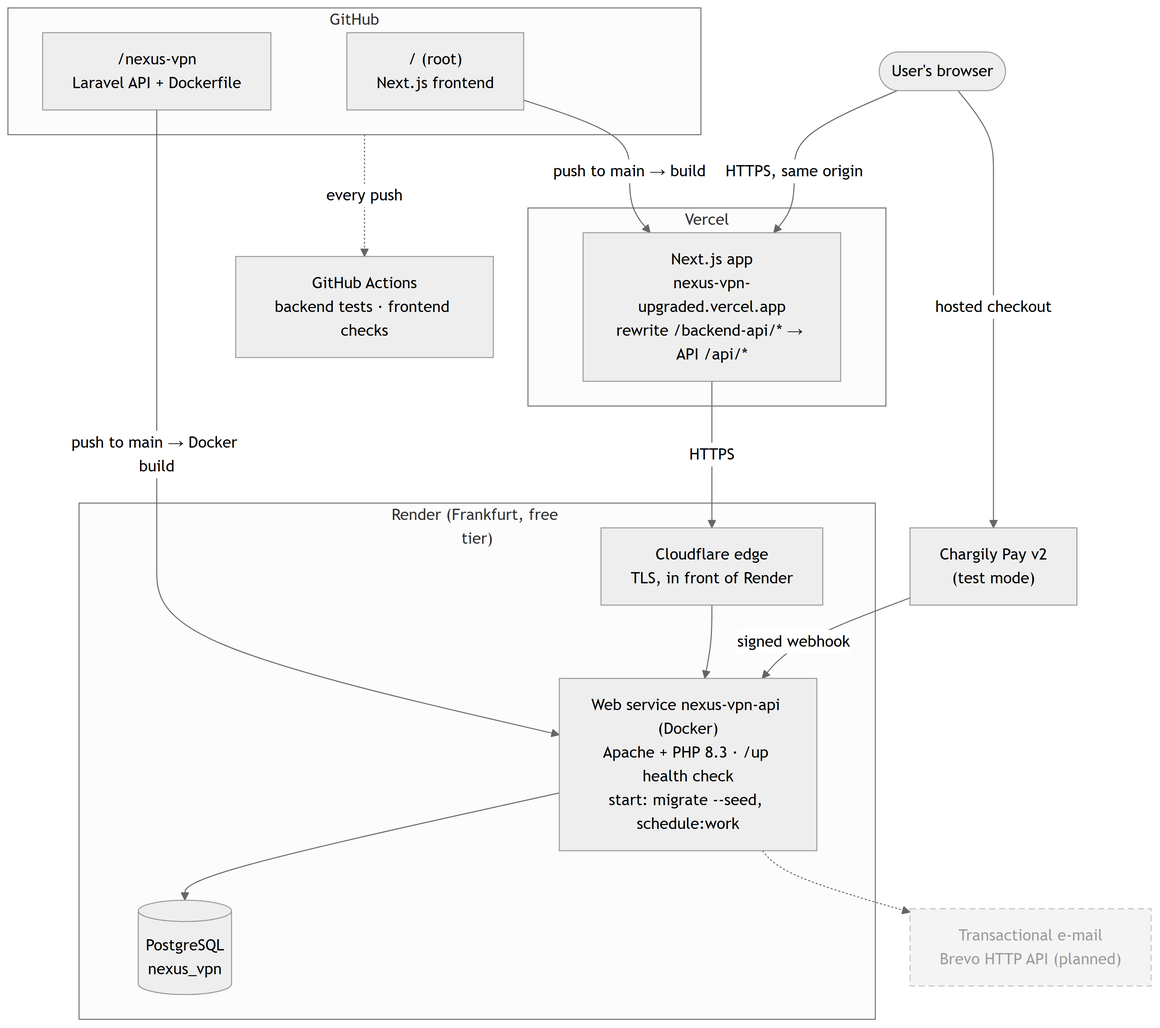
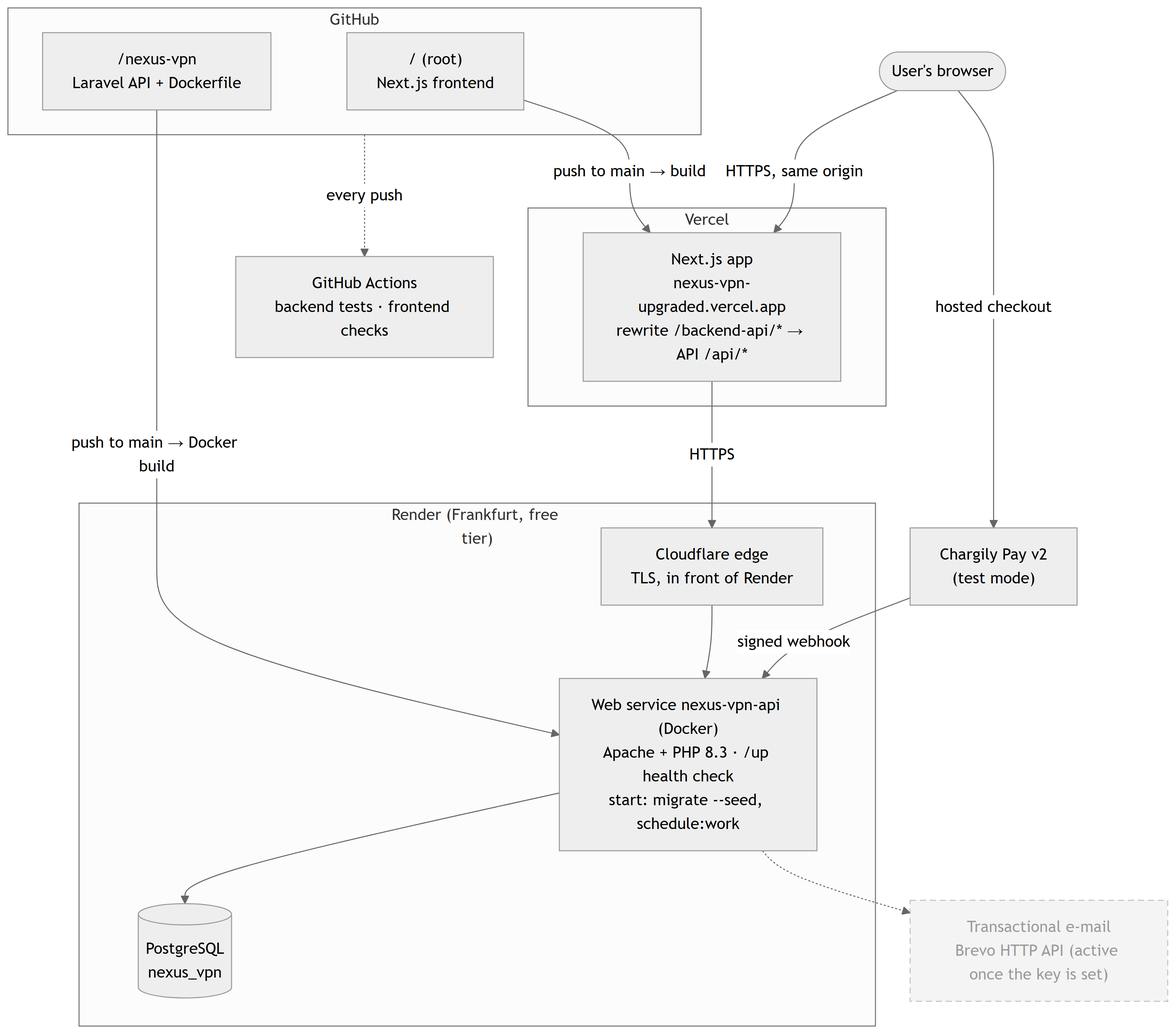
feat(mail): send production e-mail through the Brevo HTTP API (TD-16)
Render's free tier blocks outbound SMTP, so verification e-mails (needed
before paying) could not leave the live site.

- symfony/brevo-mailer + symfony/http-client, registered with
  Mail::extend('brevo') as in the Laravel 12 docs; "brevo" mailer and
  services.brevo.key (BREVO_API_KEY)
- render.yaml: MAIL_MAILER=brevo, BREVO_API_KEY secret, SMTP vars removed
- production boot logs a warning when MAIL_MAILER=brevo has no key
- BrevoMailerTest; docs/pfe and mémoire updated (111 tests)

diff --git a/nexus-vpn/app/Providers/AppServiceProvider.php b/nexus-vpn/app/Providers/AppServiceProvider.php
@@ -7,11 +7,14 @@ use Illuminate\Auth\Notifications\VerifyEmail;
 use Illuminate\Cache\RateLimiting\Limit;
 use Illuminate\Http\Request;
 use Illuminate\Support\Facades\Log;
+use Illuminate\Support\Facades\Mail;
 use Illuminate\Support\Facades\RateLimiter;
 use Illuminate\Support\Facades\Schema;
 use Illuminate\Support\Facades\URL;
 use Illuminate\Support\ServiceProvider;
 use RuntimeException;
+use Symfony\Component\Mailer\Bridge\Brevo\Transport\BrevoTransportFactory;
+use Symfony\Component\Mailer\Transport\Dsn;
 
 class AppServiceProvider extends ServiceProvider
 {
@@ -33,6 +36,17 @@ class AppServiceProvider extends ServiceProvider
         $this->guardProductionConfiguration();
         $this->configureRateLimiting();
         $this->configureEmailLinks();
+        $this->configureMailTransports();
+    }
+
+    /**
+     * Brevo's HTTP API ("brevo" mailer), used in production where outbound SMTP is blocked.
+     */
+    private function configureMailTransports(): void
+    {
+        Mail::extend('brevo', fn () => (new BrevoTransportFactory)->create(
+            new Dsn('brevo+api', 'default', config('services.brevo.key'))
+        ));
     }
 
     private function configureRateLimiting(): void
@@ -110,6 +124,7 @@ class AppServiceProvider extends ServiceProvider
             config('services.chargily.mode') !== 'live' ? 'CHARGILY_MODE is not live' : null,
             str_ends_with((string) config('mail.from.address'), '@example.com') ? 'MAIL_FROM_ADDRESS is a placeholder' : null,
             in_array(config('mail.default'), ['log', 'array'], true) ? 'MAIL_MAILER does not deliver email' : null,
+            config('mail.default') === 'brevo' && blank(config('services.brevo.key')) ? 'BREVO_API_KEY is missing' : null,
             config('session.encrypt') ? null : 'SESSION_ENCRYPT is false',
             config('logging.channels.'.config('logging.default').'.level') === 'debug' ? 'LOG_LEVEL is debug' : null,
         ]);

diff --git a/nexus-vpn/tests/Feature/BrevoMailerTest.php b/nexus-vpn/tests/Feature/BrevoMailerTest.php
@@ -1,0 +1,25 @@
+<?php
+
+namespace Tests\Feature;
+
+use Illuminate\Support\Facades\Mail;
+use ReflectionProperty;
+use Symfony\Component\Mailer\Bridge\Brevo\Transport\BrevoApiTransport;
+use Tests\TestCase;
+
+/**
+ * Production e-mail goes through Brevo's HTTP API (Render's free tier blocks outbound SMTP).
+ */
+class BrevoMailerTest extends TestCase
+{
+    public function test_brevo_mailer_uses_the_brevo_http_api_with_the_configured_key(): void
+    {
+        config(['services.brevo.key' => 'xkeysib-test-key']);
+
+        $transport = Mail::mailer('brevo')->getSymfonyTransport();
+
+        $this->assertInstanceOf(BrevoApiTransport::class, $transport);
+        $this->assertSame('brevo+api://api.brevo.com', (string) $transport);
+        $this->assertSame('xkeysib-test-key', (new ReflectionProperty($transport, 'key'))->getValue($transport));
+    }
+}

diff --git a/nexus-vpn/config/services.php b/nexus-vpn/config/services.php
@@ -28,6 +28,11 @@ return [
         'key' => env('RESEND_KEY'),
     ],
 
+    // Production e-mail: Render's free tier blocks outbound SMTP, so mail goes through Brevo's HTTP API.
+    'brevo' => [
+        'key' => env('BREVO_API_KEY'),
+    ],
+
     'slack' => [
         'notifications' => [
             'bot_user_oauth_token' => env('SLACK_BOT_USER_OAUTH_TOKEN'),

diff --git a/nexus-vpn/config/mail.php b/nexus-vpn/config/mail.php
@@ -65,6 +65,10 @@ return [
             'transport' => 'resend',
         ],
 
+        'brevo' => [
+            'transport' => 'brevo',
+        ],
+
         'sendmail' => [
             'transport' => 'sendmail',
             'path' => env('MAIL_SENDMAIL_PATH', '/usr/sbin/sendmail -bs -i'),

diff --git a/docs/memoire/chapters/ch4.md b/docs/memoire/chapters/ch4.md
@@ -54,7 +54,7 @@ Multi-factor authentication is **not** implemented and is listed as future work;
 
 ![](../figures/logos/png/vercel.png){height=0.6cm} **Vercel** — the hosting platform for the Next.js front end. **Render** — the hosting platform for the backend container and the managed PostgreSQL database. **Brevo** is the planned production e-mail service, to be used over its HTTP API (Gmail SMTP in development).
 
-![](../figures/logos/png/phpunit.png){height=0.6cm} **PHPUnit**[^phpunit] 11.5.55 — the back-end test framework (110 tests, IV.6).
+![](../figures/logos/png/phpunit.png){height=0.6cm} **PHPUnit**[^phpunit] 11.5.55 — the back-end test framework (111 tests, IV.6).
 
 ![](../figures/logos/png/eslint.png){height=0.6cm} **ESLint 9.39** with **Laravel Pint 1.29** — static analysis and code style for the front end and the back end.
 
@@ -105,7 +105,7 @@ Inside each application the code is organised in three layers:
 The API depends on three external services, each isolated behind a small, replaceable integration point:
 
 - **Chargily Pay v2** — hosted checkout and signed webhook for EDAHABIA/CIB payments (IV.5.3).
-- **E-mail** — Gmail SMTP in development; in production, Brevo's HTTP API is planned, because Render's free tier blocks outbound SMTP. Account e-mails are transactional (verification, password reset, welcome, receipt, reminders).
+- **E-mail** — Gmail SMTP in development; in production, Brevo's HTTP API, because Render's free tier blocks outbound SMTP. Account e-mails are transactional (verification, password reset, welcome, receipt, reminders).
 - **WireGuard gateway** — the server that terminates the tunnels. The portal issues peers and configuration files; running the gateway is the network team's responsibility and is not part of this repository.
 
 ## IV.3 Functional Modules
@@ -527,7 +527,7 @@ The private key is stored with Eloquent's `encrypted` cast and hidden from seria
 
 ### IV.6.1 Automated tests
 
-The back end is covered by an automated test suite of **110 tests (460 assertions)** that runs in about thirty seconds on an in-memory SQLite database. The tests are feature tests: each one drives the real HTTP endpoints and asserts on the response and the database state. Table IV.3 groups them by area; the same breakdown is given in Appendix C.
+The back end is covered by an automated test suite of **111 tests (463 assertions)** that runs in about thirty seconds on an in-memory SQLite database. The tests are feature tests: each one drives the real HTTP endpoints and asserts on the response and the database state. Table IV.3 groups them by area; the same breakdown is given in Appendix C.
 
 | Area | Tests | What it verifies |
 |---|---|---|
@@ -536,10 +536,10 @@ The back end is covered by an automated test suite of **110 tests (460 assertion
 | Subscriptions and VPN provisioning | 11 | Trial, renewal, cancellation, scheduled expiry, WireGuard peer issue and distinct tunnel addresses |
 | Mobile token API (Sanctum) | 9 | Token issue, protected routes, guard separation, token revocation |
 | Administration and billing | 19 | Admin-only access, statistics, refunds, plan deactivation, moderation, team subscriptions, contact requests |
-| Platform and data integrity | 2 | Demo-data seeder, scaffold test |
-| **Total** | **110** | 460 assertions, ~30 s |
+| Platform and data integrity | 3 | Demo-data seeder, production mail transport (Brevo), scaffold test |
+| **Total** | **111** | 463 assertions, ~30 s |
 
-**Table IV.3 — Backend automated test suite.** *Source: prepared by the authors, from `php artisan test` (15/10/2026).*
+**Table IV.3 — Backend automated test suite.** *Source: prepared by the authors, from `php artisan test` (18/10/2026).*
 
 Automated **frontend** testing is not yet in place and is listed as future work; Playwright is currently used to capture the interface screenshots rather than to assert on behaviour.
 
@@ -664,12 +664,12 @@ The free hosting tier has real limits worth stating plainly:
 
 * **Sleep.** The API stops after fifteen minutes without traffic; the next request wakes it, which took 14.5 s in our measurement. Access control stays correct during sleep because it compares the stored period end with the current time on every request, but scheduled tasks (expiry e-mails, VPN revocation, payment reconciliation) only run while the service is awake.
 * **Database lifetime.** A free Render PostgreSQL database expires thirty days after its creation and is deleted after a further fourteen-day grace period. Before real use, the database must be moved to a paid plan or backed up and recreated.
-* **E-mail.** Render's free tier blocks outbound SMTP. Transactional e-mail in production is therefore planned through the **Brevo** HTTP API (dashed in Figure IV.32); this transport is not yet implemented, so e-mails sent by the live site are not claimed here.
+* **E-mail.** Render's free tier blocks outbound SMTP. Transactional e-mail in production therefore goes through the **Brevo** HTTP API, wired with the Symfony Brevo transport that the Laravel documentation recommends (`MAIL_MAILER=brevo`). It becomes active once the Brevo API key and a sender address verified in Brevo are entered in the Render dashboard (dashed in Figure IV.32); delivery from the live site has not yet been tested, so it is not claimed here.
 * **Payments.** Chargily runs in **test mode**: the full payment flow works, but no real money is collected until the live keys are configured.
 
 ## Conclusion
 
-This chapter presented the implementation and the deployment of the portal. It set out the technology stack and justified a decoupled Next.js / Laravel architecture built as a modular monolith; it described the nine functional modules and walked through the client, administration and support interfaces; and it examined the critical components — security headers and rate limiting, session and Sanctum authentication, the HMAC-signed and idempotent payment flow, and the WireGuard provisioning built on Curve25519 — with excerpts from the source code. Quality is backed by an automated suite of 110 backend tests run by continuous integration, complemented by documented manual security checks. Finally, it described the production deployment on Vercel and Render, the release process, the checks run against the live system and the problems met while deploying, with their solutions.
+This chapter presented the implementation and the deployment of the portal. It set out the technology stack and justified a decoupled Next.js / Laravel architecture built as a modular monolith; it described the nine functional modules and walked through the client, administration and support interfaces; and it examined the critical components — security headers and rate limiting, session and Sanctum authentication, the HMAC-signed and idempotent payment flow, and the WireGuard provisioning built on Curve25519 — with excerpts from the source code. Quality is backed by an automated suite of 111 backend tests run by continuous integration, complemented by documented manual security checks. Finally, it described the production deployment on Vercel and Render, the release process, the checks run against the live system and the problems met while deploying, with their solutions.
 
 The chapter has also been explicit about the system's boundaries: live security scans, performance and load tests, dashboard screenshots and an end-to-end payment-and-tunnel demonstration are left as clearly marked items of future work, as are the forwarding of the visitor's real IP address to the API, transactional e-mail in production, the native mobile client and the live VPN gateway operated by the network team. The general conclusion that follows draws together the results of the whole project and its perspectives.
 

diff --git a/docs/memoire/chapters/abstracts.md b/docs/memoire/chapters/abstracts.md
@@ -7,7 +7,7 @@
 :::
 
 ::: {custom-style="AbstractBodyAr" dir="rtl"}
-تقدّم هذه المذكرة تصميم وإنجاز NexusVPN، وهي منصة ويب لبيع خدمة VPN وتوفيرها عبر الإنترنت للسوق الجزائرية، أُنجزت كدراسة حالة لدى مؤسسة EADN. تعرض المنصة باقات اشتراك بالدينار الجزائري، وتتيح للزبون التسجيل وبدء فترة تجريبية مجانية والدفع عبر الإنترنت بالبطاقة الذهبية أو بطاقة CIB من خلال بوابة الدفع Chargily، ثم توفّر الخدمة آليًا بتوليد زوج مفاتيح WireGuard وملف إعداد جاهز للاستيراد. وتسمح لوحة الإدارة بتسيير العروض والاشتراكات والمدفوعات وآراء الزبائن وطلبات الاتصال. تمّت نمذجة الحلّ بلغة UML وتطويره باستعمال Next.js وواجهة برمجية REST مبنية بـ Laravel؛ ويُؤكَّد الدفع عبر إشعار ويب موقَّع، وتغطّي الواجهة الخلفية 110 اختبارات آلية. وقد نُشرت المنصة على الإنترنت عبر خدمتي Vercel وRender، أمّا تطبيق الهاتف المحمول فمدرج ضمن الآفاق المستقبلية.
+تقدّم هذه المذكرة تصميم وإنجاز NexusVPN، وهي منصة ويب لبيع خدمة VPN وتوفيرها عبر الإنترنت للسوق الجزائرية، أُنجزت كدراسة حالة لدى مؤسسة EADN. تعرض المنصة باقات اشتراك بالدينار الجزائري، وتتيح للزبون التسجيل وبدء فترة تجريبية مجانية والدفع عبر الإنترنت بالبطاقة الذهبية أو بطاقة CIB من خلال بوابة الدفع Chargily، ثم توفّر الخدمة آليًا بتوليد زوج مفاتيح WireGuard وملف إعداد جاهز للاستيراد. وتسمح لوحة الإدارة بتسيير العروض والاشتراكات والمدفوعات وآراء الزبائن وطلبات الاتصال. تمّت نمذجة الحلّ بلغة UML وتطويره باستعمال Next.js وواجهة برمجية REST مبنية بـ Laravel؛ ويُؤكَّد الدفع عبر إشعار ويب موقَّع، وتغطّي الواجهة الخلفية 111 اختبارًا آليًا. وقد نُشرت المنصة على الإنترنت عبر خدمتي Vercel وRender، أمّا تطبيق الهاتف المحمول فمدرج ضمن الآفاق المستقبلية.
 :::
 
 ::: {custom-style="AbstractKeywordsAr" dir="rtl"}
@@ -19,7 +19,7 @@ Résumé
 :::
 
 ::: {custom-style="AbstractBody"}
-Ce mémoire présente la conception et la réalisation de NexusVPN, une plateforme web qui vend et fournit en ligne un service VPN pour le marché algérien, menée comme étude de cas à l'Entreprise d'Appui au Développement du Numérique (EADN). Le portail présente des formules d'abonnement en dinars algériens, permet au client de s'inscrire, de commencer un essai gratuit et de payer en ligne par carte EDAHABIA ou CIB via la passerelle Chargily, puis génère automatiquement une paire de clés WireGuard et un fichier de configuration prêt à importer. Une console d'administration gère les offres, les abonnements, les paiements, les avis des clients et les demandes de contact. La solution a été modélisée avec UML et développée avec Next.js et une API REST Laravel ; le paiement est confirmé par un webhook signé et le back-end est couvert par 110 tests automatisés. Le portail est déployé en ligne (Vercel et Render) ; une application mobile est prévue en perspective.
+Ce mémoire présente la conception et la réalisation de NexusVPN, une plateforme web qui vend et fournit en ligne un service VPN pour le marché algérien, menée comme étude de cas à l'Entreprise d'Appui au Développement du Numérique (EADN). Le portail présente des formules d'abonnement en dinars algériens, permet au client de s'inscrire, de commencer un essai gratuit et de payer en ligne par carte EDAHABIA ou CIB via la passerelle Chargily, puis génère automatiquement une paire de clés WireGuard et un fichier de configuration prêt à importer. Une console d'administration gère les offres, les abonnements, les paiements, les avis des clients et les demandes de contact. La solution a été modélisée avec UML et développée avec Next.js et une API REST Laravel ; le paiement est confirmé par un webhook signé et le back-end est couvert par 111 tests automatisés. Le portail est déployé en ligne (Vercel et Render) ; une application mobile est prévue en perspective.
 :::
 
 ::: {custom-style="AbstractKeywords"}
@@ -31,7 +31,7 @@ Abstract
 :::
 
 ::: {custom-style="AbstractBody"}
-This thesis presents the design and implementation of NexusVPN, a web platform that sells and provisions a VPN service online for the Algerian market, as a case study at the Entreprise d'Appui au Développement du Numérique (EADN). The portal presents subscription plans priced in Algerian dinars, lets a customer register, start a free trial and pay online with an EDAHABIA or CIB card through the Chargily gateway, then automatically generates a WireGuard key pair and a ready-to-import configuration file. An administration console manages offers, subscriptions, payments, customer feedback and contact requests. The solution was modelled with UML and built with Next.js and a Laravel REST API; the payment is confirmed through a signed webhook, and the back end is covered by 110 automated tests. The portal is deployed online (Vercel and Render); a mobile application is planned as future work.
+This thesis presents the design and implementation of NexusVPN, a web platform that sells and provisions a VPN service online for the Algerian market, as a case study at the Entreprise d'Appui au Développement du Numérique (EADN). The portal presents subscription plans priced in Algerian dinars, lets a customer register, start a free trial and pay online with an EDAHABIA or CIB card through the Chargily gateway, then automatically generates a WireGuard key pair and a ready-to-import configuration file. An administration console manages offers, subscriptions, payments, customer feedback and contact requests. The solution was modelled with UML and built with Next.js and a Laravel REST API; the payment is confirmed through a signed webhook, and the back end is covered by 111 automated tests. The portal is deployed online (Vercel and Render); a mobile application is planned as future work.
 :::
 
 ::: {custom-style="AbstractKeywords"}

diff --git a/docs/pfe/13-deployment.md b/docs/pfe/13-deployment.md
@@ -11,7 +11,7 @@
 | Base de données | **Render PostgreSQL** | `nexus-vpn-db` (base `nexus_vpn`, utilisateur `nexus_vpn`) | Francfort, offre **Free** |
 | Paiement | Chargily Pay v2 | Service externe | Mode `test` dans `render.yaml` |
 | Passerelle VPN WireGuard | — | Serveur externe | ⚠ À VÉRIFIER : aucun serveur WireGuard n'est décrit dans le dépôt (seules `VPN_SERVER_PUBLIC_KEY`/`VPN_SERVER_ENDPOINT` sont attendues) |
-| Envoi d'e-mails | **Dev : Gmail SMTP** ; **Production : Brevo (API HTTP)** | Service externe | ⚠ **Render Free bloque le SMTP sortant (25/465/587)** → la production utilise l'API HTTP **Brevo** (expéditeur unique vérifié, sans domaine ; D-16/D-17 du mémoire, `15` TD-16). Secrets à saisir dans Render au déploiement |
+| Envoi d'e-mails | **Dev : Gmail SMTP** ; **Production : Brevo (API HTTP)** | Service externe | ⚠ **Render Free bloque le SMTP sortant (25/465/587)** → la production utilise l'API HTTP **Brevo** (expéditeur unique vérifié, sans domaine ; D-17 du mémoire, `15` TD-16). Câblé le 2026-10-18 ; `BREVO_API_KEY` et `MAIL_FROM_ADDRESS` à saisir dans Render |
 
 Flux en production : navigateur → Vercel (`/backend-api/*` réécrit) → Render (`/api/*`) → PostgreSQL. Chargily appelle directement le webhook sur le domaine Render. Détails du flux : `07-api.md` §1.
 
@@ -72,7 +72,7 @@ Synchronisation des pairs VPN : manuelle (`php artisan vpn:peers` puis `wg syncc
 
 1. Render : créer un Blueprint à partir du dépôt GitHub et sélectionner `render.yaml`.
 2. Attendre que `nexus-vpn-api` soit sain (`/up`) ; les migrations s'exécutent au démarrage.
-3. Saisir les secrets `sync: false` dans Render (Chargily, SMTP, VPN). ⚠ À VÉRIFIER : cette étape n'est pas détaillée dans `DEPLOYMENT.md`.
+3. Saisir les secrets `sync: false` dans Render (Chargily, `BREVO_API_KEY` + `MAIL_FROM_ADDRESS`, VPN). ⚠ À VÉRIFIER : cette étape n'est pas détaillée dans `DEPLOYMENT.md`.
 4. Copier l'URL publique du service Render.
 5. Vercel : définir `NEXT_PUBLIC_API_URL` avec cette URL, puis redéployer.
 6. Chargily : configurer l'URL du webhook `https://<service-render>/api/webhooks/chargily`. ⚠ À VÉRIFIER : non mentionné dans `DEPLOYMENT.md`.
@@ -93,7 +93,7 @@ Synchronisation des pairs VPN : manuelle (`php artisan vpn:peers` puis `wg syncc
 | `CACHE_STORE`, `QUEUE_CONNECTION` | Cache et files | `render.yaml` / `.env` |
 | `LOG_CHANNEL`, `LOG_LEVEL` | Journalisation | `render.yaml` / `.env` |
 | `CHARGILY_MODE`, `CHARGILY_SECRET_KEY` | Paiement (test/live), clé API + HMAC | `render.yaml` + secret Render / `.env` |
-| `MAIL_MAILER`, `MAIL_HOST`, `MAIL_PORT`, `MAIL_USERNAME`, `MAIL_PASSWORD`, `MAIL_FROM_ADDRESS`, `MAIL_FROM_NAME` | E-mails | `render.yaml` + secrets Render / `.env` |
+| `MAIL_MAILER`, `MAIL_FROM_ADDRESS`, `MAIL_FROM_NAME` ; production : `BREVO_API_KEY` ; local : `MAIL_HOST`, `MAIL_PORT`, `MAIL_USERNAME`, `MAIL_PASSWORD`, `MAIL_ENCRYPTION` | E-mails | `render.yaml` + secrets Render / `.env` |
 | `VPN_SERVER_PUBLIC_KEY`, `VPN_SERVER_ENDPOINT` | Passerelle WireGuard (obligatoires pour délivrer une configuration) | secrets Render / `.env` |
 | `VPN_DNS`, `VPN_ALLOWED_IPS`, `VPN_ADDRESS_POOL`, `VPN_CLIENT_PREFIX` | Paramètres WireGuard optionnels (valeurs par défaut dans `config/services.php`) | `.env` (absentes de `render.yaml` : valeurs par défaut en production) |
 | `BCRYPT_ROUNDS` | Coût du hachage des mots de passe | `.env` |
@@ -147,4 +147,4 @@ Depuis le 2026-10-06, l'envoi d'e-mails passe par **Gmail SMTP** : `MAIL_MAILER=
 
 Envoi réel vérifié le 2026-10-06 (e-mail de vérification livré via Gmail). Le paiement Chargily exige une clé de test et une URL publique pour recevoir le webhook (la vérification active via la page de résultat fonctionne sans webhook).
 
-**Production — Render bloque le SMTP.** Depuis 2025-09, **Render Free bloque les ports SMTP sortants (25/465/587)** ; l'envoi en production ne passera donc **pas** par Gmail SMTP mais par l'**API HTTP de Brevo** (compte gratuit, expéditeur unique vérifié, sans domaine requis), câblée **au moment du déploiement** (petit changement de mailer + clé API ; voir `15-technical-decisions.md` TD-16). `config/services.php` câble déjà des mailers HTTP (`resend`, `postmark`) ; Brevo s'ajoute de la même façon. En **local**, Gmail SMTP reste utilisé.
+**Production — Render bloque le SMTP.** Depuis 2025-09, **Render Free bloque les ports SMTP sortants (25/465/587)** ; l'envoi en production ne passera donc **pas** par Gmail SMTP mais par l'**API HTTP de Brevo** (compte gratuit, expéditeur unique vérifié, sans domaine requis), **câblée le 2026-10-18** selon la méthode officielle de Laravel 12 (« Additional Symfony Transports ») : paquets `symfony/brevo-mailer` et `symfony/http-client`, transport enregistré par `Mail::extend('brevo', …)` dans `AppServiceProvider`, mailer `brevo` dans `config/mail.php`, clé `services.brevo.key` lue depuis `BREVO_API_KEY`. `render.yaml` fixe `MAIL_MAILER=brevo` ; il reste à saisir dans Render `BREVO_API_KEY` (Brevo > SMTP & API > API Keys) et `MAIL_FROM_ADDRESS` (expéditeur vérifié dans Brevo). Au démarrage en production, un avertissement est journalisé si `MAIL_MAILER=brevo` sans clé. Test : `tests/Feature/BrevoMailerTest.php`. En **local**, Gmail SMTP reste utilisé. ⚠ À VÉRIFIER : livraison réelle depuis le site en ligne non encore testée.

diff --git a/docs/memoire/chapters/conclusion.md b/docs/memoire/chapters/conclusion.md
@@ -4,7 +4,7 @@ This work set out to design and develop a secure web portal that sells and provi
 
 To reach this objective, the thesis first studied the host organisation and its existing process (Chapter I), then the theoretical background: the fundamentals of VPNs and their protocols (IPsec, OpenVPN and WireGuard), the types of VPN service, the security and data-protection frameworks, and the concepts of electronic commerce and online payment in the Algerian context (Chapter II). On this basis, the requirements, the actors and the use cases were analysed and the solution was modelled with UML (Chapter III), before it was implemented, tested and deployed to production (Chapter IV).
 
-The main results are a complete and working portal. It publishes subscription plans priced in Algerian dinars; it lets a customer register, verify their e-mail, start a seven-day free trial, and subscribe and pay with EDAHABIA or CIB through the Chargily gateway, with the amount computed on the server and the payment applied exactly once through an HMAC-signed webhook and an idempotent, amount-checked activation. It provisions VPN access by generating a WireGuard (Curve25519) key pair, storing the private key encrypted, and delivering a ready-to-import configuration file. It offers an administration console to manage offers, subscriptions, payments and refunds, moderate testimonials, handle contact requests and consult an audit log. The back end is covered by an automated suite of **110 tests (460 assertions)**, and the front end passes linting, type-checking and a production build; both checks run automatically on GitHub Actions. The portal is deployed — the front end on Vercel, the API and its PostgreSQL database on Render — and was verified against its public addresses (IV.7).
+The main results are a complete and working portal. It publishes subscription plans priced in Algerian dinars; it lets a customer register, verify their e-mail, start a seven-day free trial, and subscribe and pay with EDAHABIA or CIB through the Chargily gateway, with the amount computed on the server and the payment applied exactly once through an HMAC-signed webhook and an idempotent, amount-checked activation. It provisions VPN access by generating a WireGuard (Curve25519) key pair, storing the private key encrypted, and delivering a ready-to-import configuration file. It offers an administration console to manage offers, subscriptions, payments and refunds, moderate testimonials, handle contact requests and consult an audit log. The back end is covered by an automated suite of **111 tests (463 assertions)**, and the front end passes linting, type-checking and a production build; both checks run automatically on GitHub Actions. The portal is deployed — the front end on Vercel, the API and its PostgreSQL database on Render — and was verified against its public addresses (IV.7).
 
 **Answer to the problem statement.** The main question asked how a web portal can modernise the way the VPN service is sold and delivered, compared with the current manual process. The three hypotheses are assessed below against the results reported in Chapters II to IV.
 

diff --git a/docs/pfe/17-changelog.md b/docs/pfe/17-changelog.md
@@ -53,3 +53,4 @@
 | 2026-10-15 | Sécurité (mesure) | **R-05 mesuré en production** : l'IP vue par Laravel est celle de proxys changeants (plusieurs compteurs `X-RateLimit` pour un même client) ; limites par IP partiellement inefficaces. Documenté, correctif non retenu à ce stade | Vérifier le comportement réel des en-têtes Render/Vercel (À VÉRIFIER depuis l'audit) | Risque R-05 précisé dans `08` | — |
 | 2026-10-15 | DevOps (dev local) | Extension PHP `sodium` activée dans le `php.ini` WAMP local | 9 tests en échec (`sodium_crypto_scalarmult_base()` indéfinie) : génération des clés WireGuard impossible en local | 131/131 tests avant R-03 | — |
 | 2026-10-18 | Mémoire (rédaction) | **Section IV.7 « Deployment » réécrite à partir du système en ligne** : composants de production (Table IV.5), parcours d'une requête, publication (`render.yaml`, Docker, Vercel), CI (premier run du 13/10 : frontend ✅, backend ❌ à cause des tests hérités, corrigé), vérifications datées sur les URL publiques (Table IV.6), problèmes de déploiement (Table IV.7), limites de l'hébergement gratuit ; Figure IV.32 redessinée (hôtes réels, Cloudflare, Chargily, GitHub Actions ; Brevo en pointillé « prévu ») ; comptes de tests 110/460 (ch. IV, annexe C, conclusion, résumés) ; `build.sh` rendu portable (pandoc détecté, Word via `docx2pdf.ps1` sans LibreOffice, `PYTHON=`). | Le mémoire décrivait encore le déploiement comme « prévu ». | Mémoire reconstruit (113 p.), 89 légendes = 89 entrées de liste, pages vérifiées visuellement. | — |
+| 2026-10-18 | Backend / DevOps | **E-mail de production via l'API HTTP Brevo** (TD-16, D-17) : `symfony/brevo-mailer` + `symfony/http-client` ^7.4, `Mail::extend('brevo')` dans `AppServiceProvider`, mailer `brevo` (`config/mail.php`), clé `services.brevo.key` ; `render.yaml` : `MAIL_MAILER=brevo` + `BREVO_API_KEY` (secret), variables SMTP retirées ; avertissement au démarrage si la clé manque ; `tests/Feature/BrevoMailerTest.php` | Render Free bloque le SMTP sortant : les e-mails de vérification (requis pour payer) ne pouvaient pas partir du site en ligne | 111/111 tests ; actif après saisie de `BREVO_API_KEY` + `MAIL_FROM_ADDRESS` dans Render (livraison réelle À VÉRIFIER) | — |

diff --git a/docs/memoire/chapters/annexes.md b/docs/memoire/chapters/annexes.md
@@ -42,7 +42,7 @@ The application is configured entirely through environment variables; the table 
 | Application | `APP_NAME`, `APP_ENV`, `APP_KEY`, `APP_DEBUG`, `APP_URL`, `FRONTEND_URL` |
 | Database | `DB_CONNECTION` (and the `DB_*` host/credentials for PostgreSQL in production) |
 | Session | `SESSION_DRIVER`, `SESSION_ENCRYPT`, `SESSION_LIFETIME`, `SESSION_DOMAIN` |
-| Mail | `MAIL_MAILER`, `MAIL_HOST`, `MAIL_PORT`, `MAIL_USERNAME`, `MAIL_PASSWORD`, `MAIL_ENCRYPTION`, `MAIL_FROM_ADDRESS`, `MAIL_FROM_NAME` |
+| Mail | `MAIL_MAILER`, `MAIL_FROM_ADDRESS`, `MAIL_FROM_NAME`; production: `BREVO_API_KEY`; development (SMTP): `MAIL_HOST`, `MAIL_PORT`, `MAIL_USERNAME`, `MAIL_PASSWORD`, `MAIL_ENCRYPTION` |
 | Payment (Chargily) | `CHARGILY_MODE`, `CHARGILY_SECRET_KEY`, `CHARGILY_WEBHOOK_URL` |
 | VPN (WireGuard gateway) | `VPN_SERVER_PUBLIC_KEY`, `VPN_SERVER_ENDPOINT`, `VPN_DNS`, `VPN_ALLOWED_IPS`, `VPN_ADDRESS_POOL`, `VPN_CLIENT_PREFIX` |
 | Mobile token (Sanctum) | `SANCTUM_TOKEN_EXPIRATION` |
@@ -51,7 +51,7 @@ The application is configured entirely through environment variables; the table 
 
 ## Appendix C — Summary of the automated test suite
 
-The back end is covered by **110 tests (460 assertions)** that run in about thirty seconds on an in-memory SQLite database. The breakdown by area is given in the body of the thesis (Table IV.3): authentication, account and security (28); payments and webhooks (41); subscriptions and VPN provisioning (11); mobile token API (9); administration and billing (19); platform and data integrity (2). The automated front-end test suite is future work; Playwright is currently used to capture the interface screenshots.
+The back end is covered by **111 tests (463 assertions)** that run in about thirty seconds on an in-memory SQLite database. The breakdown by area is given in the body of the thesis (Table IV.3): authentication, account and security (28); payments and webhooks (41); subscriptions and VPN provisioning (11); mobile token API (9); administration and billing (19); platform and data integrity (3). The automated front-end test suite is future work; Playwright is currently used to capture the interface screenshots.
 
 *Source: prepared by the authors, from `php artisan test`.*
 

diff --git a/docs/pfe/00-project-context.md b/docs/pfe/00-project-context.md
@@ -13,7 +13,7 @@
 | Frontend (racine) | Next.js 16.2.6 (App Router, Turbopack), React 19.2, TypeScript 5.7 strict, Tailwind CSS 4.2, shadcn/ui (Radix), framer-motion, next-themes ; pnpm | `04-frontend.md`, `09` |
 | Backend (`nexus-vpn/`) | Laravel 12.60 (PHP ^8.2 ; 8.2 local, 8.3 Docker), PHPUnit 11, Pint, Laravel Boost | `05-backend.md`, `09` |
 | Base de données | SQLite (local, tests en mémoire), PostgreSQL (production) ; 18 migrations (dont `personal_access_tokens`, Sanctum — app mobile reportée) | `06-database.md` |
-| Services | Chargily Pay v2 (mode test), WireGuard (passerelle externe), SMTP | `13-deployment.md` |
+| Services | Chargily Pay v2 (mode test), WireGuard (passerelle externe), e-mail : Gmail SMTP (local) / API HTTP Brevo (production) | `13-deployment.md` |
 | Hébergement | Vercel (frontend) + Render Free (Docker PHP/Apache + PostgreSQL, Francfort) | `13-deployment.md` |
 
 ## Organisation des dossiers
@@ -59,7 +59,7 @@
 ## État actuel (2026-10-05)
 
 * Code inchangé depuis le commit initial `067e68d` ; documentation de référence complète (commits `e246b4d` → `4e9c025` + synthèse finale).
-* Tests : backend 110/110 réussis (2026-10-15, après suppression des 25 tests hérités ; en local, l'extension PHP `sodium` doit être activée) ; frontend : lint, types et build réussis ; aucun test frontend.
+* Tests : backend 111/111 réussis (2026-10-18 ; suppression des 25 tests hérités le 2026-10-15 ; en local, l'extension PHP `sodium` doit être activée) ; frontend : lint, types et build réussis ; aucun test frontend.
 * Exigences : 31 FR, 14 NFR (`02`) ; 22 fonctionnalités (`10`) ; 20 problèmes résolus (`14`) ; 12 décisions (`15`).
 * Historique : l'essentiel du durcissement et des fonctionnalités a été réalisé les 2026-10-04/05 juste avant le versionnement (`11` §2.5, `17`).
 * Risques ouverts principaux (`08` §11) : R-01 révocation VPN non propagée à la passerelle, R-02 base Render Free expirant après 30 jours, R-04 planificateur en veille, R-05 IP du visiteur non connue de Laravel en production (proxys changeants, mesuré le 2026-10-15). R-03 (routes héritées) corrigé le 2026-10-15.

diff --git a/docs/pfe/12-testing.md b/docs/pfe/12-testing.md
@@ -27,6 +27,7 @@
 | `tests/Feature/Api/AccountDeletionTest.php` | 5 | `DELETE /api/account` : anonymisation + soft delete en conservant l'historique de facturation, impossibilité de se réauthentifier ensuite, exigence du mot de passe actuel (422), blocage des administrateurs (409 `admin_account`) et des propriétaires d'équipe (409 `team_owner`) |
 | `tests/Feature/Api/AdminUserDeletionTest.php` | 6 | `DELETE /api/admin/users/{user}` : anonymisation + conservation de l'historique, suppression d'un autre administrateur (s'il en reste un), refus de se supprimer soi-même et du dernier administrateur et d'un propriétaire d'équipe (422), refus pour un non-administrateur (403) |
 | `tests/Feature/Api/LoginAfterDeletionTest.php` | 3 | Régression connexion/suppression : un compte actif se connecte avec le bon mot de passe (e-mail insensible à la casse), un compte fermé (anonymisé) ne peut plus se connecter (401), et l'e-mail libéré peut être réutilisé à l'inscription (le nouveau mot de passe fonctionne, l'ancien non) |
+| `tests/Feature/BrevoMailerTest.php` | 1 | **Mailer de production `brevo`** : le transport résolu est l'API HTTP Brevo (`brevo+api://api.brevo.com`, pas SMTP) et utilise la clé `services.brevo.key` |
 | `tests/Feature/Api/LegacyRoutesTest.php` | 4 | **Routes web héritées supprimées (R-03)** : `POST /register`, `/login`, `/forgot-password`, `/reset-password` → `404` sans création de compte ; `dashboard` et `settings/profile|password` → `404` sans modification ni suppression du compte ; `/` redirige vers `FRONTEND_URL` ; invité sur `GET /api/me` sans en-tête JSON → `401` (pas de redirection vers une route `login` inexistante) |
 
 ### Autres
@@ -37,7 +38,7 @@
 
 Les 25 tests hérités du starter kit (`tests/Feature/Auth/*`, `tests/Feature/Settings/*`, `tests/Feature/DashboardTest.php`) ont été supprimés le 2026-10-15 avec les routes qu'ils testaient (R-03).
 
-Total : 110 tests (exécution du 2026-10-15).
+Total : 111 tests (exécution du 2026-10-18).
 
 ### Zones non couvertes identifiées
 
